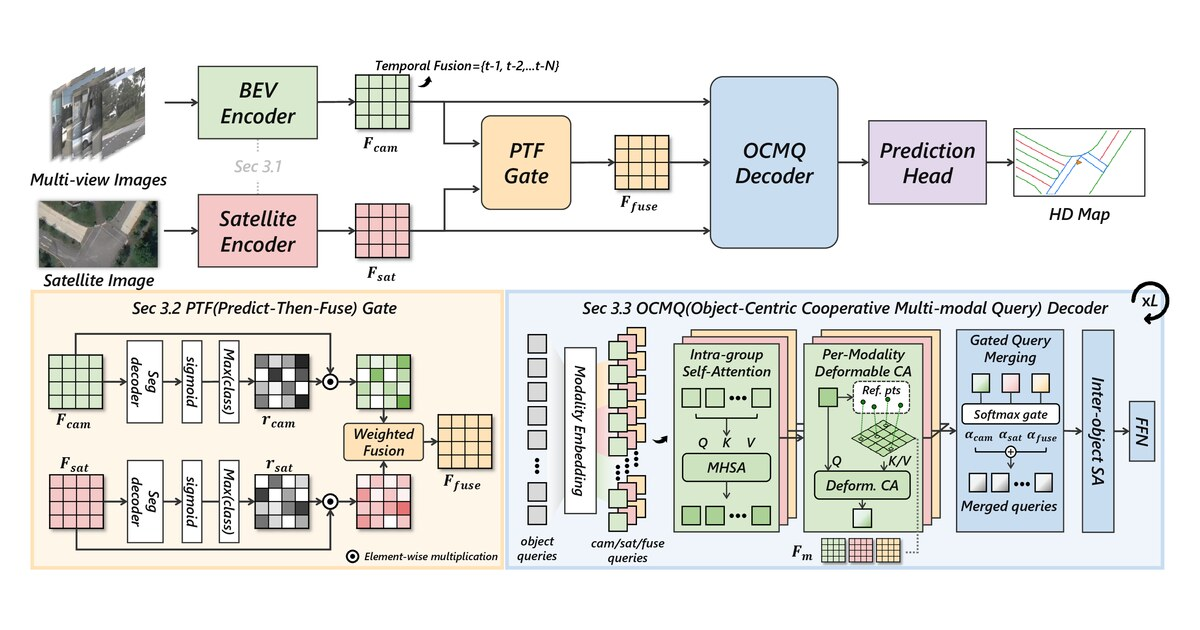
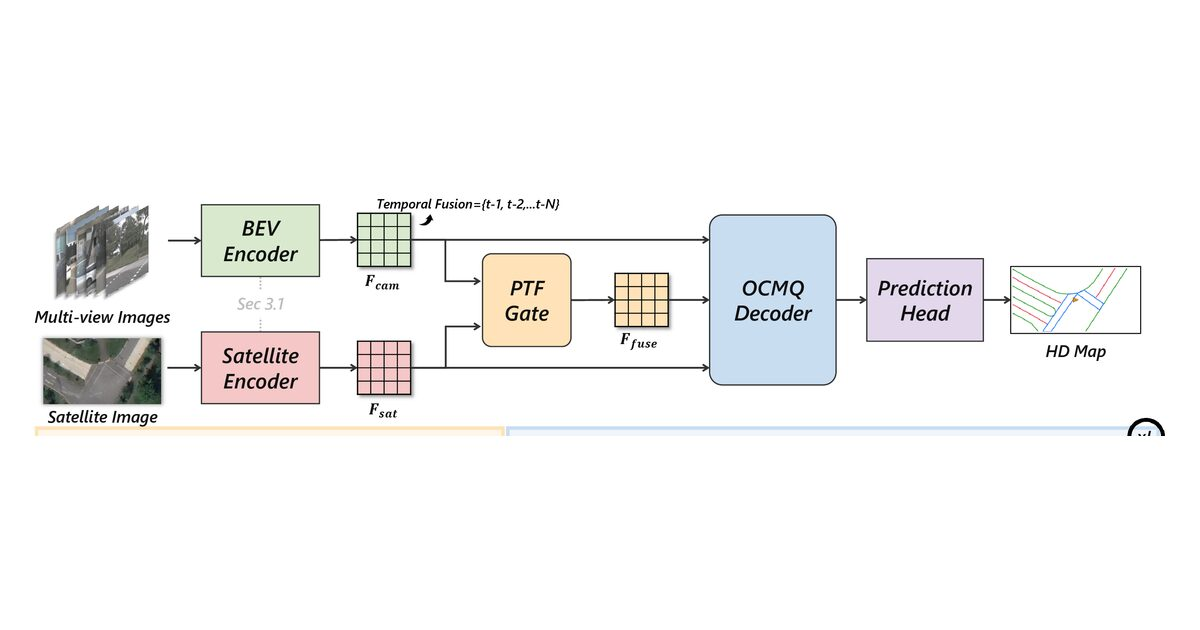
Add the gate figure, and make all of them a third of the weight
Figure 2 is composed from the five parts it is built from in the paper, with
the headers, row labels and axis labels the LaTeX draws around them. It is
missing the vertical colorbar: colorbar_v.pdf was not among the parts, and a
scale on a heat map is not something to invent. compose_gate.py sits beside
the figures so it can be rerun with that file in place.

Everything is WebP now, at the same 2880 px and visually identical at 1:1.
The encoder depends on what is in the figure: flat line art goes truly
lossless, where ocmq is 59 KB against 96 KB near-lossless, and anything with
a photograph in it goes the other way, where overview is 158 KB against
246 KB. The two PNGs they replace were 465 KB and 160 KB. The link-preview
card is the top row of the overview rather than the whole thing, which is
both legible at card size and 45 KB instead of 139 KB.

Four images, 288 KB, against 625 KB for the two that were there.

diff --git a/resmap-page/index.html b/resmap-page/index.html
@@ -34,7 +34,7 @@
 <link rel="preconnect" href="https://fonts.gstatic.com" crossorigin>
 <link rel="preconnect" href="https://cdn.jsdelivr.net" crossorigin>
 <link rel="stylesheet" href="https://fonts.googleapis.com/css2?family=Inter:ital,opsz,wght@0,14..32,400;0,14..32,500;0,14..32,600;0,14..32,700&display=swap">
-<link rel="stylesheet" href="style.css?v=34">
+<link rel="stylesheet" href="style.css?v=35">
 
 <!-- Set the theme before first paint so there is no flash. -->
 <script>
@@ -111,7 +111,7 @@
 
   <div class="col wide">
     <figure class="figure">
-      <img src="assets/figures/teaser.png" alt="ReSMap keeps predicting the local HD map after the onboard cameras are zeroed out, by reallocating evidence onto the satellite branch.">
+      <img src="assets/figures/teaser.webp" alt="ReSMap keeps predicting the local HD map after the onboard cameras are zeroed out, by reallocating evidence onto the satellite branch.">
       <figcaption>When the onboard cameras fail, camera-only and prior-based baselines lose the map. ReSMap reallocates its evidence onto the geo-aligned satellite tile, which is cached offline and therefore unaffected by the failure.</figcaption>
     </figure>
   </div>
@@ -152,7 +152,7 @@
 
   <div class="col wide">
     <figure class="figure">
-      <img src="assets/figures/overview.png" alt="ReSMap architecture: camera and satellite encoders produce separate BEV features, the PTF gate fuses them by per-pixel confidence, and the OCMQ decoder merges per-modality query updates.">
+      <img src="assets/figures/overview.webp" alt="ReSMap architecture: camera and satellite encoders produce separate BEV features, the PTF gate fuses them by per-pixel confidence, and the OCMQ decoder merges per-modality query updates.">
       <figcaption><b>Overview.</b> Camera and satellite encoders produce separate BEV features. The PTF gate fuses them by per-pixel segmentation confidence; the OCMQ decoder keeps one shared object-query pool but computes camera-, satellite-, and fused-conditioned updates inside each layer.</figcaption>
     </figure>
   </div>
@@ -177,7 +177,7 @@
 
   <div class="col wide">
     <figure class="figure">
-      <img src="assets/figures/ocmq.png" alt="Comparison of a naive per-branch query design against the OCMQ design under Hungarian matching.">
+      <img src="assets/figures/ocmq.webp" alt="Comparison of a naive per-branch query design against the OCMQ design under Hungarian matching.">
       <figcaption><b>Why one query pool.</b> With independent per-modality pools (left), bipartite matching routes each ground-truth element to the strongest modality only. OCMQ (right) merges per-modality updates through a per-token gate, so every class absorbs camera, satellite, and fused gradients.</figcaption>
     </figure>
   </div>
@@ -398,7 +398,7 @@
 
   <div class="col wide">
     <figure class="figure">
-      <img src="assets/figures/gate.png" alt="Per-pixel and per-query gate response under camera dropout.">
+      <img src="assets/figures/gate.webp" alt="Per-pixel and per-query gate response under camera dropout.">
       <figcaption><b>Gate response under camera dropout.</b> Left: over active BEV cells, removing all cameras collapses <i>r</i><sub>cam</sub> while <i>r</i><sub>sat</sub> rises to cover the same regions. Right: the same routing appears at the query level: the per-token gate shifts negatively for 98% of queries, with the largest drops on those that were most camera-reliant in the clean run.</figcaption>
     </figure>
   </div>
@@ -603,8 +603,8 @@
   </button>
 </div>
 
-<script src="failure.js?v=34"></script>
-<script src="drive.js?v=34"></script>
-<script src="main.js?v=34"></script>
+<script src="failure.js?v=35"></script>
+<script src="drive.js?v=35"></script>
+<script src="main.js?v=35"></script>
 </body>
 </html>

diff --git a/resmap-page/assets/figures/compose_gate.py b/resmap-page/assets/figures/compose_gate.py
@@ -1,0 +1,98 @@
+"""Assemble the gate figure from the paper's five sub-PDFs.
+
+The LaTeX builds this as a 2x3 tabular; here it is composed directly so the
+one image the page needs carries its own headers and row labels. The vertical
+colorbar the LaTeX places between the BEV columns and the bar chart is not
+among the files supplied, so its slot is left out rather than invented.
+"""
+import subprocess, os
+from PIL import Image, ImageDraw, ImageFont
+
+SRC, OUT = '/home/kyungmin/min_ws', os.path.dirname(os.path.abspath(__file__))
+S = 2                                   # supersample, downscaled at the end
+
+BEV_W, GAP, PANEL_GAP, COL_GAP = 640 * S, 12 * S, 54 * S, 12 * S
+LBL_W, HEAD_H, CAP_H = 34 * S, 34 * S, 40 * S
+AX_W = 38 * S
+
+def render(name, target_w):
+    import re
+    out = os.path.join(OUT, 'c-%s.png' % name)
+    w = float(subprocess.run(
+        ['python3', '-c',
+         "import warnings;warnings.filterwarnings('ignore')\n"
+         "from pypdf import PdfReader;print(PdfReader('%s/%s.pdf').pages[0].mediabox.width)" % (SRC, name)],
+        capture_output=True, text=True).stdout)
+    dpi = round(target_w / w * 72)
+    subprocess.run(['gs', '-q', '-dSAFER', '-dBATCH', '-dNOPAUSE', '-sDEVICE=png16m',
+                    '-r%d' % dpi, '-dTextAlphaBits=4', '-dGraphicsAlphaBits=4',
+                    '-sOutputFile=' + out, '%s/%s.pdf' % (SRC, name)], check=True)
+    return Image.open(out).convert('RGB')
+
+bev = {n: render(n, BEV_W) for n in ('1-1', '1-2', '2-1', '2-2')}
+row_h = bev['1-1'].height
+
+# The bar chart stands as tall as the two BEV rows together.
+panel_h = row_h * 2 + GAP
+chart = render('3', 4000)
+chart = chart.resize((round(chart.width * panel_h / chart.height), panel_h), Image.LANCZOS)
+
+W = LBL_W + BEV_W * 2 + COL_GAP + PANEL_GAP + chart.width + AX_W
+H = HEAD_H + panel_h + CAP_H
+img = Image.new('RGB', (W, H), 'white')
+d = ImageDraw.Draw(img)
+
+F = '/usr/share/fonts/truetype/dejavu/DejaVuSans.ttf'
+FI = '/usr/share/fonts/truetype/dejavu/DejaVuSans-Oblique.ttf'
+head = ImageFont.truetype(F, 17 * S)
+cap = ImageFont.truetype(F, 17 * S)
+lab = ImageFont.truetype(FI, 17 * S)
+sub = ImageFont.truetype(F, 12 * S)
+AX_W = AX_W
+INK = (21, 23, 27)
+
+def centre(text, font, cx, cy, fill=INK):
+    b = d.textbbox((0, 0), text, font=font)
+    d.text((cx - (b[2] - b[0]) / 2 - b[0], cy - (b[3] - b[1]) / 2 - b[1]), text, font=font, fill=fill)
+
+def script(base, subs, font, small):
+    """A label as a tight RGBA tile: base glyphs, then a subscript."""
+    bb, sb = font.getbbox(base), small.getbbox(subs)
+    w = (bb[2] - bb[0]) + (sb[2] - sb[0]) + 3 * S
+    h = (bb[3] - bb[1]) + 5 * S
+    t = Image.new('RGBA', (w + 4 * S, h + 4 * S), (0, 0, 0, 0))
+    dd = ImageDraw.Draw(t)
+    dd.text((2 * S - bb[0], 2 * S - bb[1]), base, font=font, fill=INK)
+    dd.text((2 * S - bb[0] + (bb[2] - bb[0]) + 2 * S, 2 * S - bb[1] + (bb[3] - bb[1]) - (sb[3] - sb[1]) + 2 * S),
+            subs, font=small, fill=INK)
+    return t
+
+def turned(tile, cx, cy, deg):
+    t = tile.rotate(deg, expand=True, resample=Image.BICUBIC)
+    img.paste(t, (round(cx - t.width / 2), round(cy - t.height / 2)), t)
+
+x0 = LBL_W
+col = [x0, x0 + BEV_W + COL_GAP]
+panel_x = x0 + BEV_W * 2 + COL_GAP + PANEL_GAP
+
+centre('Clean', head, col[0] + BEV_W / 2, HEAD_H / 2)
+centre('All-camera drop', head, col[1] + BEV_W / 2, HEAD_H / 2)
+centre('Per-query camera gate', head, panel_x + chart.width / 2, HEAD_H / 2)
+
+for r, (a, b_) in enumerate((('1-1', '1-2'), ('2-1', '2-2'))):
+    y = HEAD_H + r * (row_h + GAP)
+    img.paste(bev[a], (col[0], y))
+    img.paste(bev[b_], (col[1], y))
+    turned(script('r', ['cam', 'sat'][r], lab, sub), LBL_W / 2, y + row_h / 2, 90)
+
+img.paste(chart, (panel_x, HEAD_H))
+turned(script('α', 'cam', lab, sub), panel_x + chart.width + AX_W / 2, HEAD_H + panel_h * 0.25, 270)
+turned(script('Δα', 'cam', lab, sub), panel_x + chart.width + AX_W / 2, HEAD_H + panel_h * 0.75, 270)
+
+yc = HEAD_H + panel_h + CAP_H / 2
+centre('(a) Per-pixel BEV gate', cap, x0 + BEV_W + COL_GAP / 2, yc)
+centre('(b) Per-query gate', cap, panel_x + chart.width / 2, yc)
+
+img = img.resize((W // S, H // S), Image.LANCZOS)
+img.save(os.path.join(OUT, 'gate.png'))
+print('gate.png', img.size)

diff --git a/resmap-page/assets/README.md b/resmap-page/assets/README.md
@@ -6,16 +6,43 @@ are being produced.
 
 ## Figures — `assets/figures/`
 
-| File           | Used in            | Source                                   |
-|----------------|--------------------|------------------------------------------|
-| `teaser.png`   | hero               | new figure: baselines vs. ReSMap under all-camera drop |
-| `overview.png` | §3 Method          | paper Fig. 1 (architecture)              |
-| `ocmq.png`     | §3.2               | paper Fig. 3 (query design / matching)   |
-| `gate.png`     | §6.1 Analysis      | paper Fig. 2 (per-pixel and per-query gate) |
-| `social.jpg`   | link previews      | 1200 × 630 crop of the teaser            |
+| File            | Used in       | Source                                    | Status  |
+|-----------------|---------------|-------------------------------------------|---------|
+| `overview.webp` | §3 Method     | paper Fig. 1 (architecture)               | in      |
+| `ocmq.webp`     | §3.2          | paper Fig. 3 (query design / matching)    | in      |
+| `gate.webp`     | §7.1 Analysis | paper Fig. 2, composed from its five parts | in, no colorbar |
+| `social.jpg`    | link previews | 1200 x 630, the top of the overview        | stopgap |
+| `teaser.webp`   | hero          | not in the paper: a qualitative panel under all-camera drop would do | **wanted** |
 
-Export at roughly 2× the display width (2000–2400 px wide is plenty) and
-keep each file under ~600 KB. PNG for diagrams, JPEG for photographic panels.
+`gate.webp` is missing the vertical colorbar the LaTeX places between the BEV
+columns and the bar chart: `colorbar_v.pdf` was not among the parts, and a
+scale on a heat map is not something to invent. Drop that file in and rerun
+`compose_gate.py` to put it back.
+
+## How these were made
+
+Rendered from the paper PDFs with ghostscript, trimmed, then encoded as WebP:
+
+```
+gs -q -dSAFER -dBATCH -dNOPAUSE -sDEVICE=png16m -r<dpi> \
+   -dTextAlphaBits=4 -dGraphicsAlphaBits=4 -sOutputFile=out.png fig.pdf
+convert out.png -bordercolor white -border 1 -fuzz 1% -trim +repage \
+        -bordercolor white -border 12 -strip flat.png
+convert flat.png -define webp:near-lossless=60 -define webp:method=6 \
+        -strip final.webp
+```
+
+`<dpi>` is `2880 / <pdf width in points> * 72`, which gives a 2880 px image:
+twice the 1440 px the figures are ever shown at.
+
+Pick the encoder by what is in the figure. Line art with flat fills compresses
+better truly lossless (`-define webp:lossless=true`): `ocmq` is 59 KB that way
+against 96 KB near-lossless. Anything with a photograph in it goes the other
+way, and `overview` is 158 KB near-lossless against 246 KB lossless. Both are
+indistinguishable from the PNG at 1:1; the PNGs they replaced were 465 KB and
+160 KB.
+
+Keep each file well under 200 KB. The four together are 288 KB.
 
 ## Video — `assets/video/`
 
